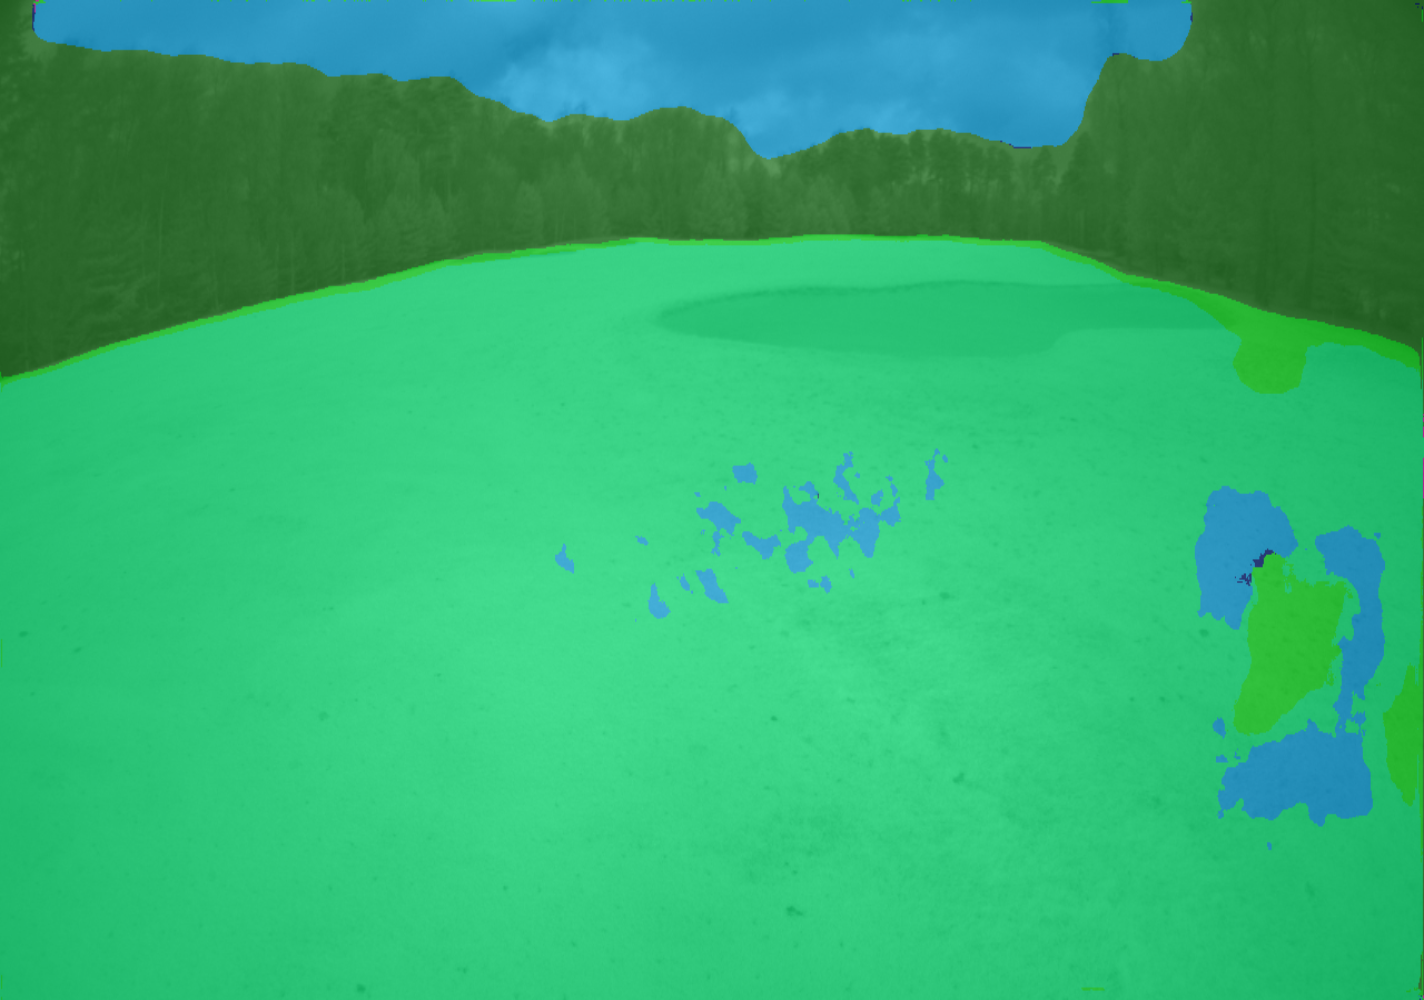
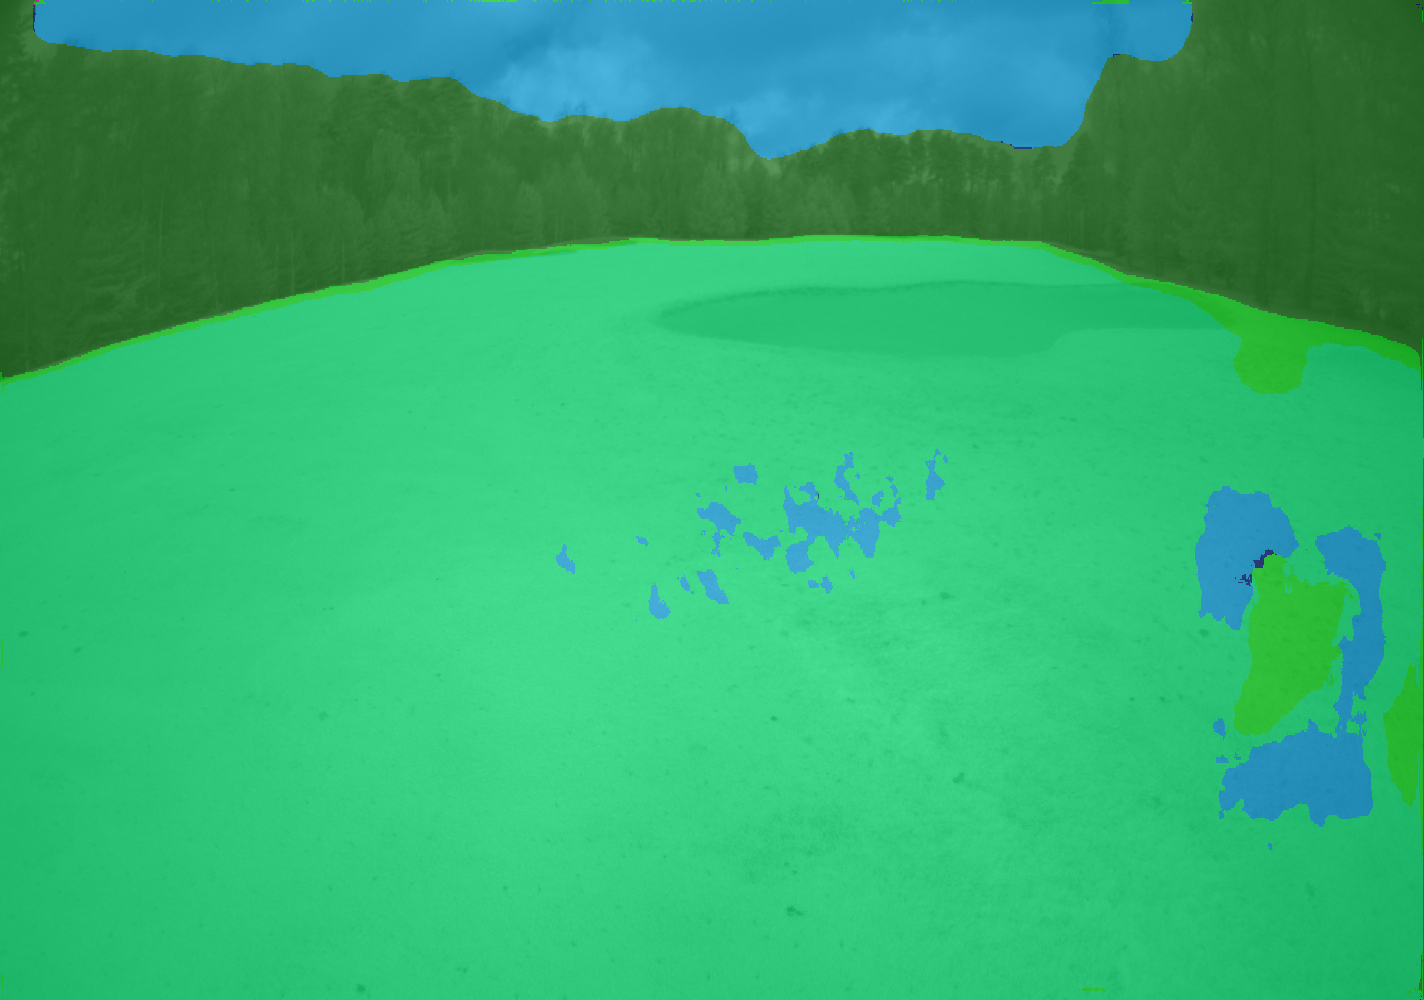
Refactored processOutputColoredArgmaxed method in trt_segmentation_inferencer

Changed region(s): [[0.9888, 0.992, 1.0, 1.0], [0.9888, 0.775, 1.0, 0.806], [0.9888, 0.651, 1.0, 0.682]]

diff --git a/trtwrapper/src/trt_segmentation_inferencer.cpp b/trtwrapper/src/trt_segmentation_inferencer.cpp
@@ -292,33 +292,21 @@ bool TRTSegmentationInferencer::processOutputArgmaxed(
 bool TRTSegmentationInferencer::processOutputColoredArgmaxed(
     const samplesCommon::BufferManager &buffers, float alpha,
     const cv::Mat &original_image, int pixel_sky_border) {
-  auto output_node_name = getOutputNodeName()[0];
-  auto *hostDataBuffer =
-      static_cast<int *>(buffers.getHostBuffer(output_node_name));
-  const size_t num_of_elements = getHostDataBufferSize<int>();
-  assert(num_of_elements % (m_rows * m_cols) == 0);
+  processOutputArgmaxed(buffers, pixel_sky_border);
 
-  if (!hostDataBuffer) {
-    m_last_error = "Can not get output tensor by name " + output_node_name;
-    return false;
-  }
-
-  std::vector<int> data_vec{hostDataBuffer, hostDataBuffer + num_of_elements};
-  cv::Mat index_mask = cv::Mat(data_vec).reshape(1, m_rows);
-
-  m_colored_mask = cv::Mat(m_rows, m_cols, CV_8UC3);
+  m_colored_mask = cv::Mat(m_original_rows, m_original_cols, CV_8UC3);
   uint8_t *mask_ptr = m_colored_mask.data;
-  cv::Mat img;
-  smart_resize(original_image, img, {m_cols, m_rows});
-  uint8_t *img_ptr = img.data;
+//  cv::Mat img;
+//  smart_resize(original_image, img, {m_cols, m_rows});
+  uint8_t *img_ptr = original_image.data;
 
-  index_mask.forEach<int>([&](int pixel, const int position[]) -> void {
+  m_index_mask.forEach<uchar>([&](uchar pixel, const int position[]) -> void {
     if (pixel_sky_border) {
       if ((pixel == 1) and (position[0] > pixel_sky_border)) {
         pixel = 5; // Swap sky for grass in the lower part of the image
       }
     }
-    int hw_pos = position[0] * m_cols + position[1];
+    int hw_pos = position[0] * m_original_cols + position[1];
     mask_ptr[3 * hw_pos + 0] =
         (1 - alpha) * m_colors[pixel][2] + alpha * img_ptr[3 * hw_pos + 0];
     mask_ptr[3 * hw_pos + 1] =
